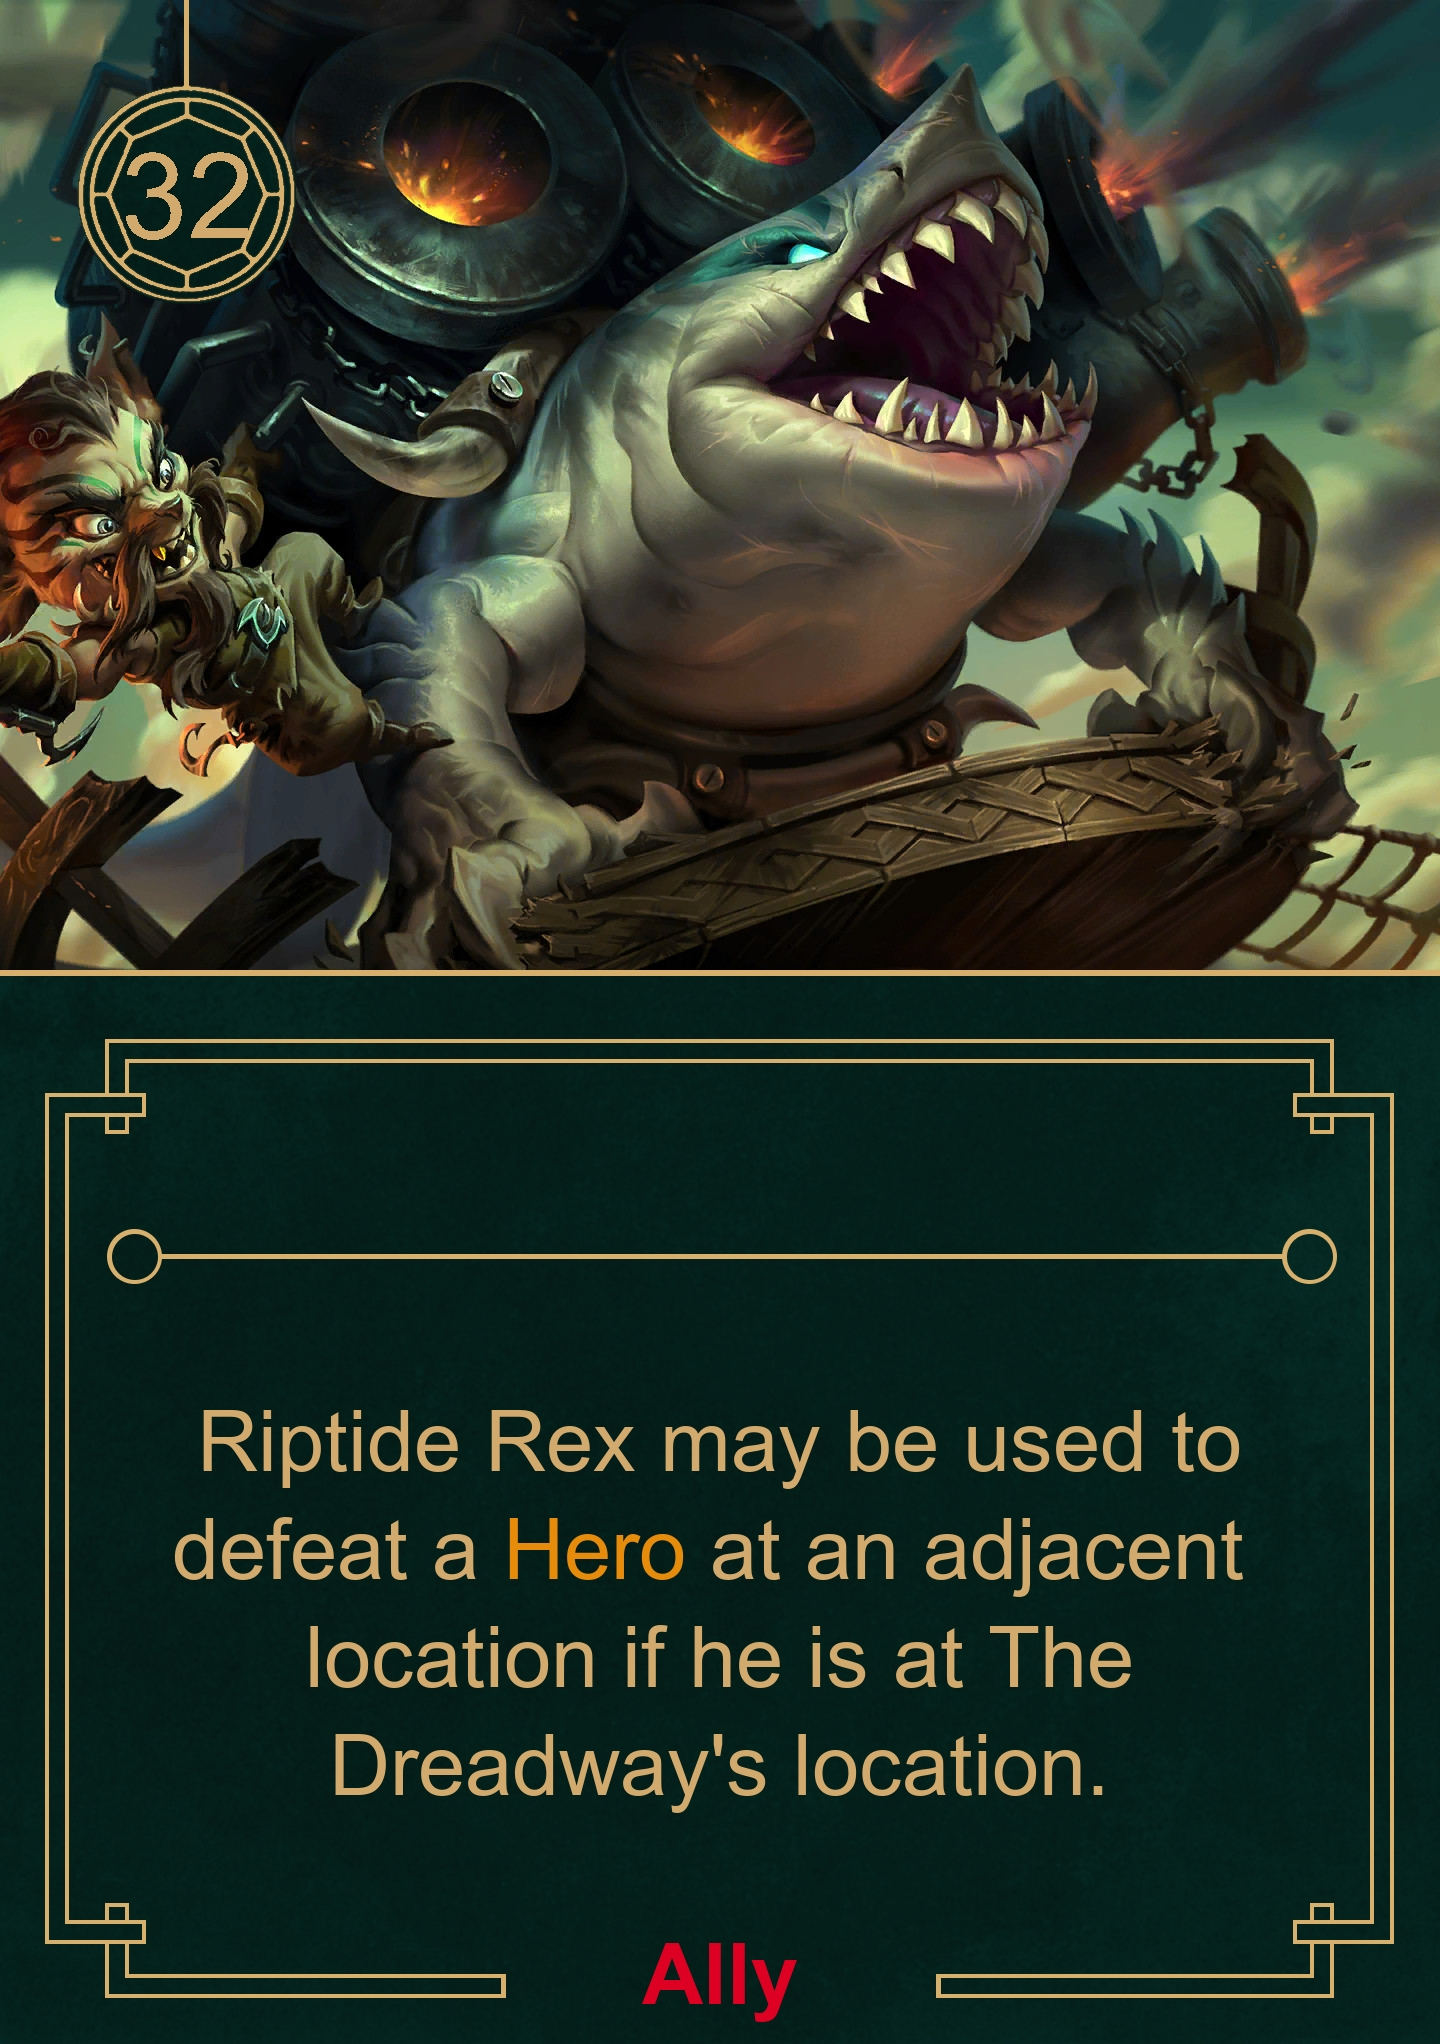
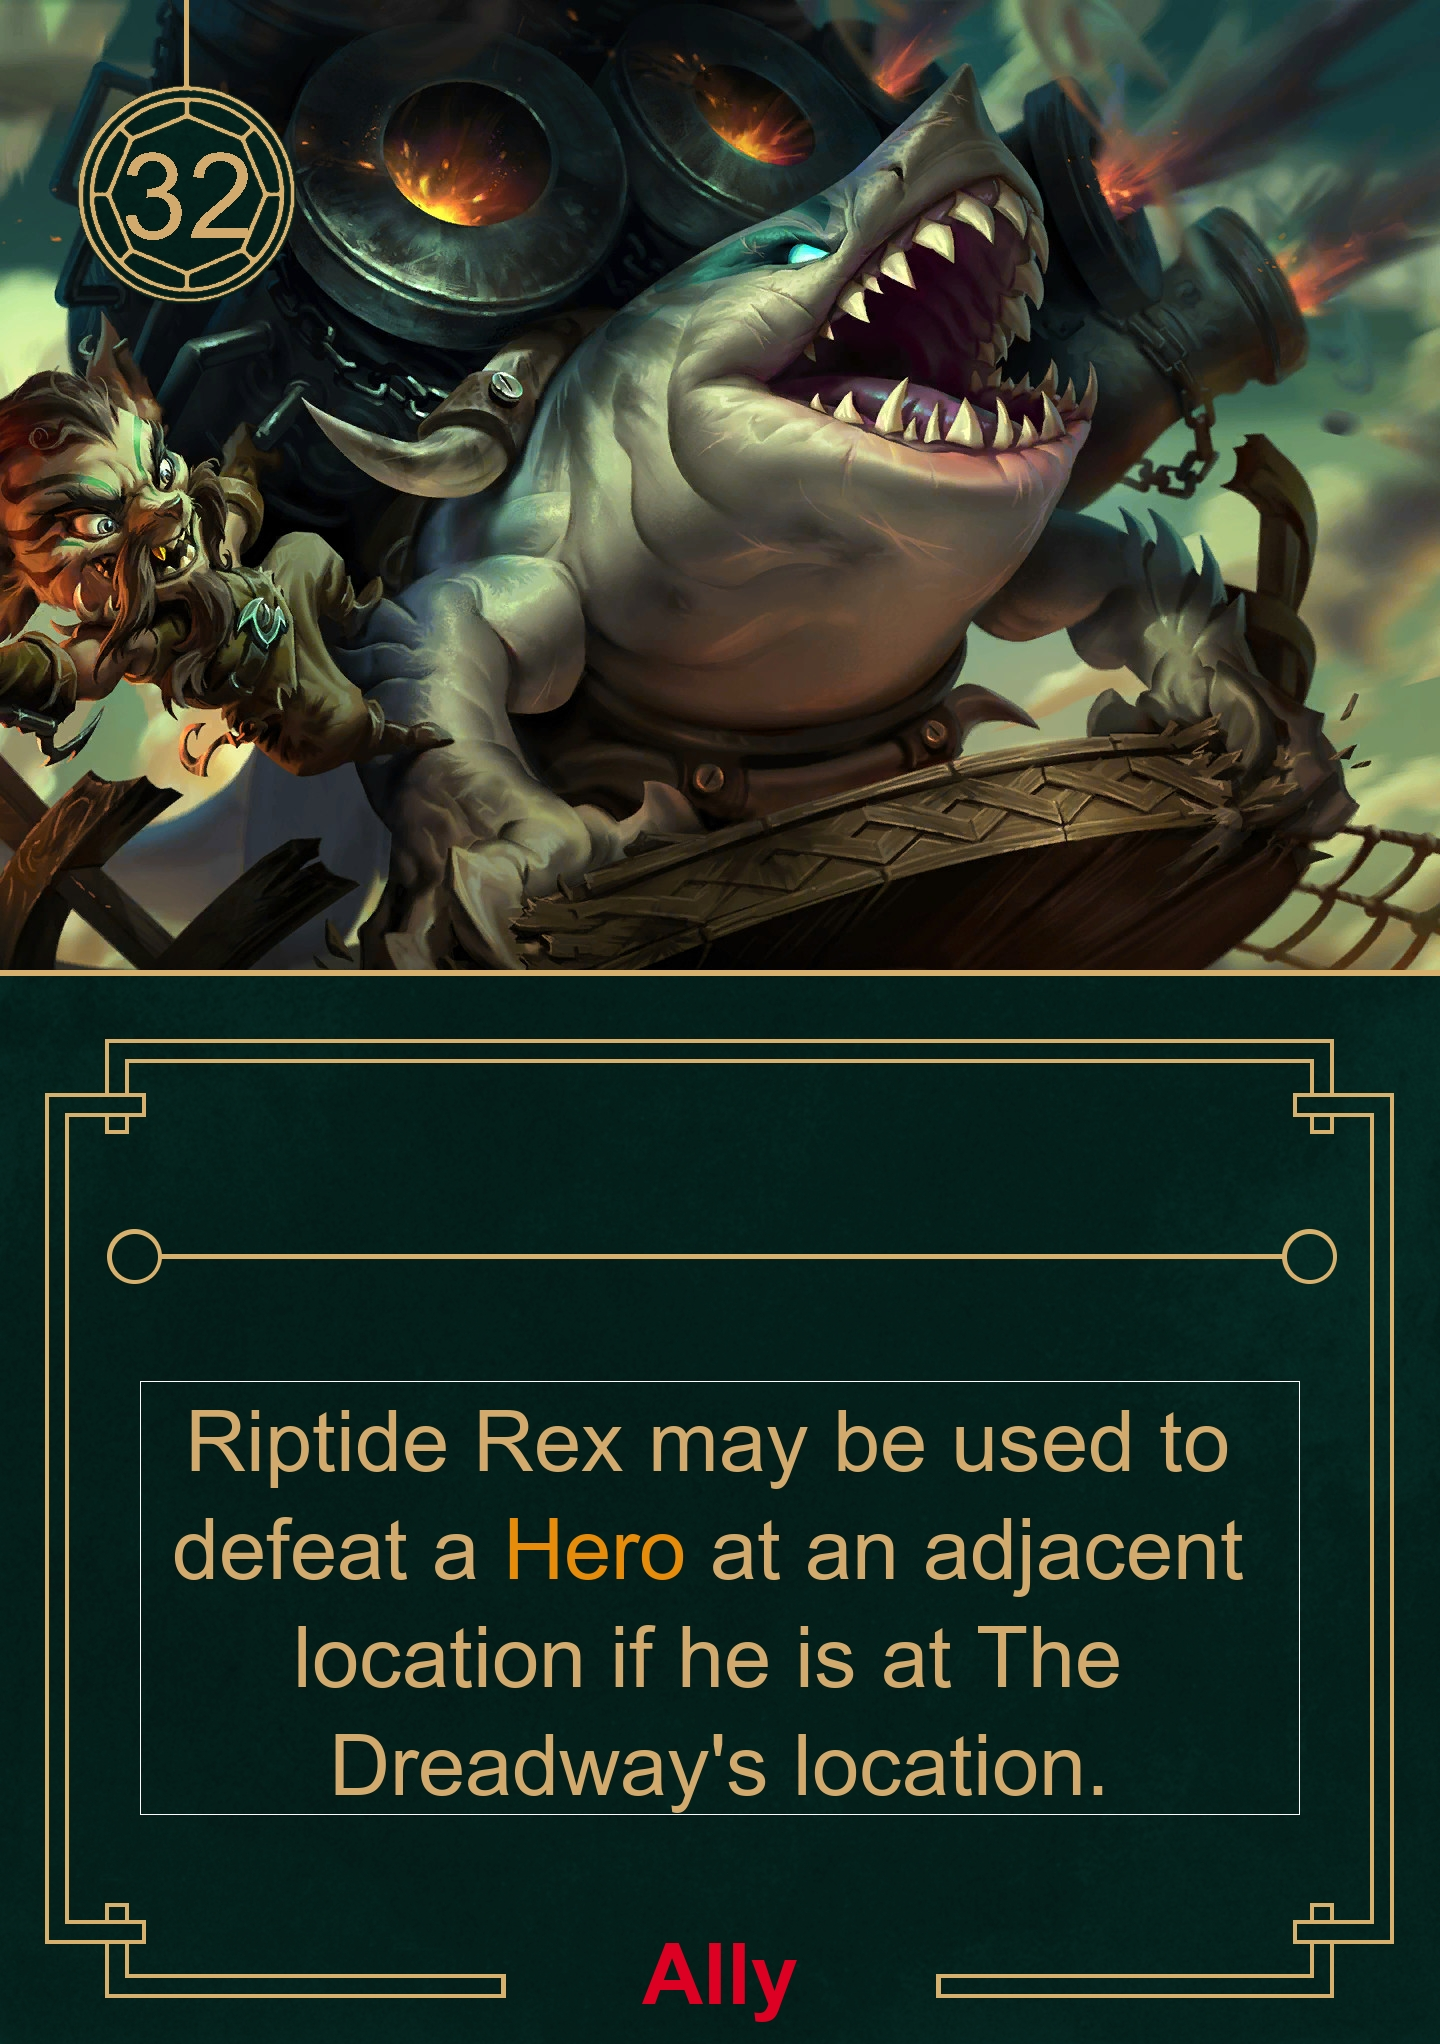
WIP: System to calculate if the lines it takes are too high
So that I can reduce the font if needed.

Changed region(s): [[0.125, 0.6781, 0.875, 0.7397], [0.1875, 0.7705, 0.7812, 0.8322]]

diff --git a/Card Photocopier/src/es/cristichi/card_generator/CardGenerator.java b/Card Photocopier/src/es/cristichi/card_generator/CardGenerator.java
@@ -322,7 +322,7 @@ public class CardGenerator {
 
 	private BufferedImage generateImage(File templatesFolder, File artFolder, CardInfo card) throws IOException {
 		Color textColor = (card.deck == "Fate" ? COLOR_TEXT_FATE : COLOR_TEXT_VILLAIN);
-		String htmlAbility = card.ability.trim().replace("   ", "\n").replace("\n", "</p><p>")
+		String htmlAbility = card.ability.trim()
 						.replace("Effect", "<span style=\"color: #7ac424\">Effect</span>")
 						.replace("Ally", "<span style=\"color: #de0022\">Ally</span>")
 						.replace("Item", "<span style=\"color: #45afe6\">Item</span>")
@@ -359,7 +359,7 @@ public class CardGenerator {
 			drawCenteredString(resImageG, card.cost, COST_COORDS, FONT_CORNER_VALUES, textColor);
 		}
 		
-		drawCenteredHTMLParagraph(resImageG, htmlAbility, ABILITY_COORDS, FONT_TEXT_MAX, textColor);
+		drawCenteredHTMLParagraph(resImageG, htmlAbility, ABILITY_COORDS, FONT_TEXT_MAX, textColor, 1);
 		
 		return resImage;
 	}
@@ -401,10 +401,83 @@ public class CardGenerator {
 		g.drawImage(type, null, rect.x, rect.y);
 	}
 	
-	public void drawCenteredHTMLParagraph(Graphics2D g, String htmlText, Rectangle rect, Font font, Color textColor) {
+	/**
+	 * Used to print a paragraph of text as several "p" in an html. It supports coloring and other styles.
+	 * @param graphics The graphics in which to draw this paragraph.
+	 * @param htmlText The HTML text. "html", "style" and "body" tags will be included, as well as an initial "p", so please include just regular text. "/n", "   " and "br" will be interpreted as new line markers.
+	 * @param rect
+	 * @param font
+	 * @param textColor
+	 * @param resizeStep
+	 */
+	public void drawCenteredHTMLParagraph(Graphics2D graphics, String htmlText, Rectangle rect, Font font, Color textColor, int resizeStep) {
+		htmlText = htmlText.replace("   ", "\n").replace("\n", "<br>").replace("<br>", "</p><p>");
+		JLabel label = new JLabel("<html><style>html{width:" + rect.width + ";}p{ border: 1px solid white;}</style><body style='text-align: center'><div><p>"+htmlText);
 		
-		JLabel label = new JLabel("<html><style>html { width: " + rect.width + "; }</style><body style='text-align: center'><div><p>"+htmlText);
-		System.out.println(label.getText());
+		
+//		int numLines = 1;
+//		char[] textArray = htmlText.toCharArray();
+//		for (int i = 0; i < textArray.length; i++) {
+//			System.out.println(textArray[i]);
+//			if ((i>3 && textArray[i] == textArray[i-1] && textArray[i] == textArray[i-2] && textArray[i] == ' ')
+//					|| (i > 4 && textArray[i] == '>' && textArray[i-1] == 'r' && textArray[i-2] == 'b' && textArray[i-3] == '<')
+//					|| (textArray[i] == Character.LINE_SEPARATOR)) {
+//				numLines++;
+//			}
+//		}
+		
+		//TODO: Calculate lines
+		Font fontFinal = font;
+		FontMetrics fontMetrics = graphics.getFontMetrics(fontFinal);
+		
+		int numLines = 1;
+		char[] textArray = htmlText.toCharArray();
+		int lastLineJump = 0;
+		boolean insideTag = false;
+		int tagCharacters = 0;
+		for (int i = 0; i < textArray.length; i++) {
+			//TODO: right now characters in <span> are counted, I'd want them absolutely discarded from all of this. Perhaps just doing another loop...
+			if (textArray[i] == '<'){
+				insideTag = true;
+				tagCharacters++;
+			}
+			String subString = htmlText.substring(lastLineJump, i);
+			System.out.println("Checking line: \""+subString+"\"");
+			if (subString.endsWith("</p><p>")) {
+				System.out.println("Line jump in "+i+": \""+ textArray[i]+"\"");
+		
+				int stringWidth = fontMetrics.stringWidth(subString.substring(0, subString.length()-7));
+				int addNumLines = stringWidth / ABILITY_COORDS.width;
+				System.out.println("addLine in between "+addNumLines);
+				if (stringWidth % ABILITY_COORDS.width>0){
+					System.out.println("Added +1 because "+stringWidth +"%"+ABILITY_COORDS.width+" = "+(stringWidth % ABILITY_COORDS.width));
+					addNumLines++;
+				}
+				numLines+=addNumLines;
+				lastLineJump = i;
+				System.out.println("Line: \""+subString.substring(0, subString.length()-7)+"\"\n   with width: "+stringWidth+"\n   and num lines:"+ addNumLines);
+			} else if (i == textArray.length-1){
+				System.out.println("Last line in "+i+": \""+ textArray[i]+"\"");
+		
+				int stringWidth = fontMetrics.stringWidth(subString);
+				int addNumLines = stringWidth / ABILITY_COORDS.width;
+				if (stringWidth % ABILITY_COORDS.width>0){
+					addNumLines++;
+				}
+				numLines+=addNumLines;
+				lastLineJump = i;
+				System.out.println("Line: \""+subString+"\"\n   with width: "+stringWidth+"\n   and num lines:"+ addNumLines);
+			}
+		}
+//		int numLines = stringWidth / ABILITY_COORDS.width;
+//		if (stringWidth % ABILITY_COORDS.width>0){
+//			numLines++;
+//		}
+		
+		System.out.println("Rectangle width: "+ABILITY_COORDS.width);
+		System.out.println("Bounds height: "+ABILITY_COORDS.height +" for each of the "+numLines+" lines");
+		System.out.println("Calculated height: "+(fontMetrics.getHeight()*numLines));
+		
 		label.setBounds(rect);
 		label.setLocation(rect.getLocation());
 		label.setFont(font);
@@ -414,7 +487,7 @@ public class CardGenerator {
 		
 		BufferedImage type = new BufferedImage(rect.width, rect.height, BufferedImage.TYPE_INT_ARGB);
 		label.paint(type.getGraphics());
-		g.drawImage(type, null, rect.x, rect.y);
+		graphics.drawImage(type, null, rect.x, rect.y);
 	}
 
 	/**
@@ -481,9 +554,10 @@ public class CardGenerator {
 
 		ci.cost = "32";
 		ci.strength = "3";
-		ci.ability = "When Riptide Rex is played, please take one +1 Strength Token and put it on yourself for being so good at this game. Then, take a -1 Strength Token and put it on an opponent because nobody is left alive after trying to conquer your domain.";
-		ci.ability = "Riptide Rex may be used to   defeat a Hero at an adjacent location if he is at The   Dreadway's location.";
-//		ci.ability = "When    Riptide    Rex do the good.";
+//		ci.ability = "When Riptide Rex is played, please take one +1 Strength Token and put it on yourself for being so good at this game. Then, take a -1 Strength Token and put it on an opponent because nobody is left alive after trying to conquer your domain.";
+		ci.ability = "Riptide Rex may be used to defeat a Hero at an adjacent location if he is at The Dreadway's location.";
+//		ci.ability = "When Riptide Rex do the good.";
+//		ci.ability = "You won   gg";
 
 		ci.activateAbility = "";
 		ci.activateCost = "";
